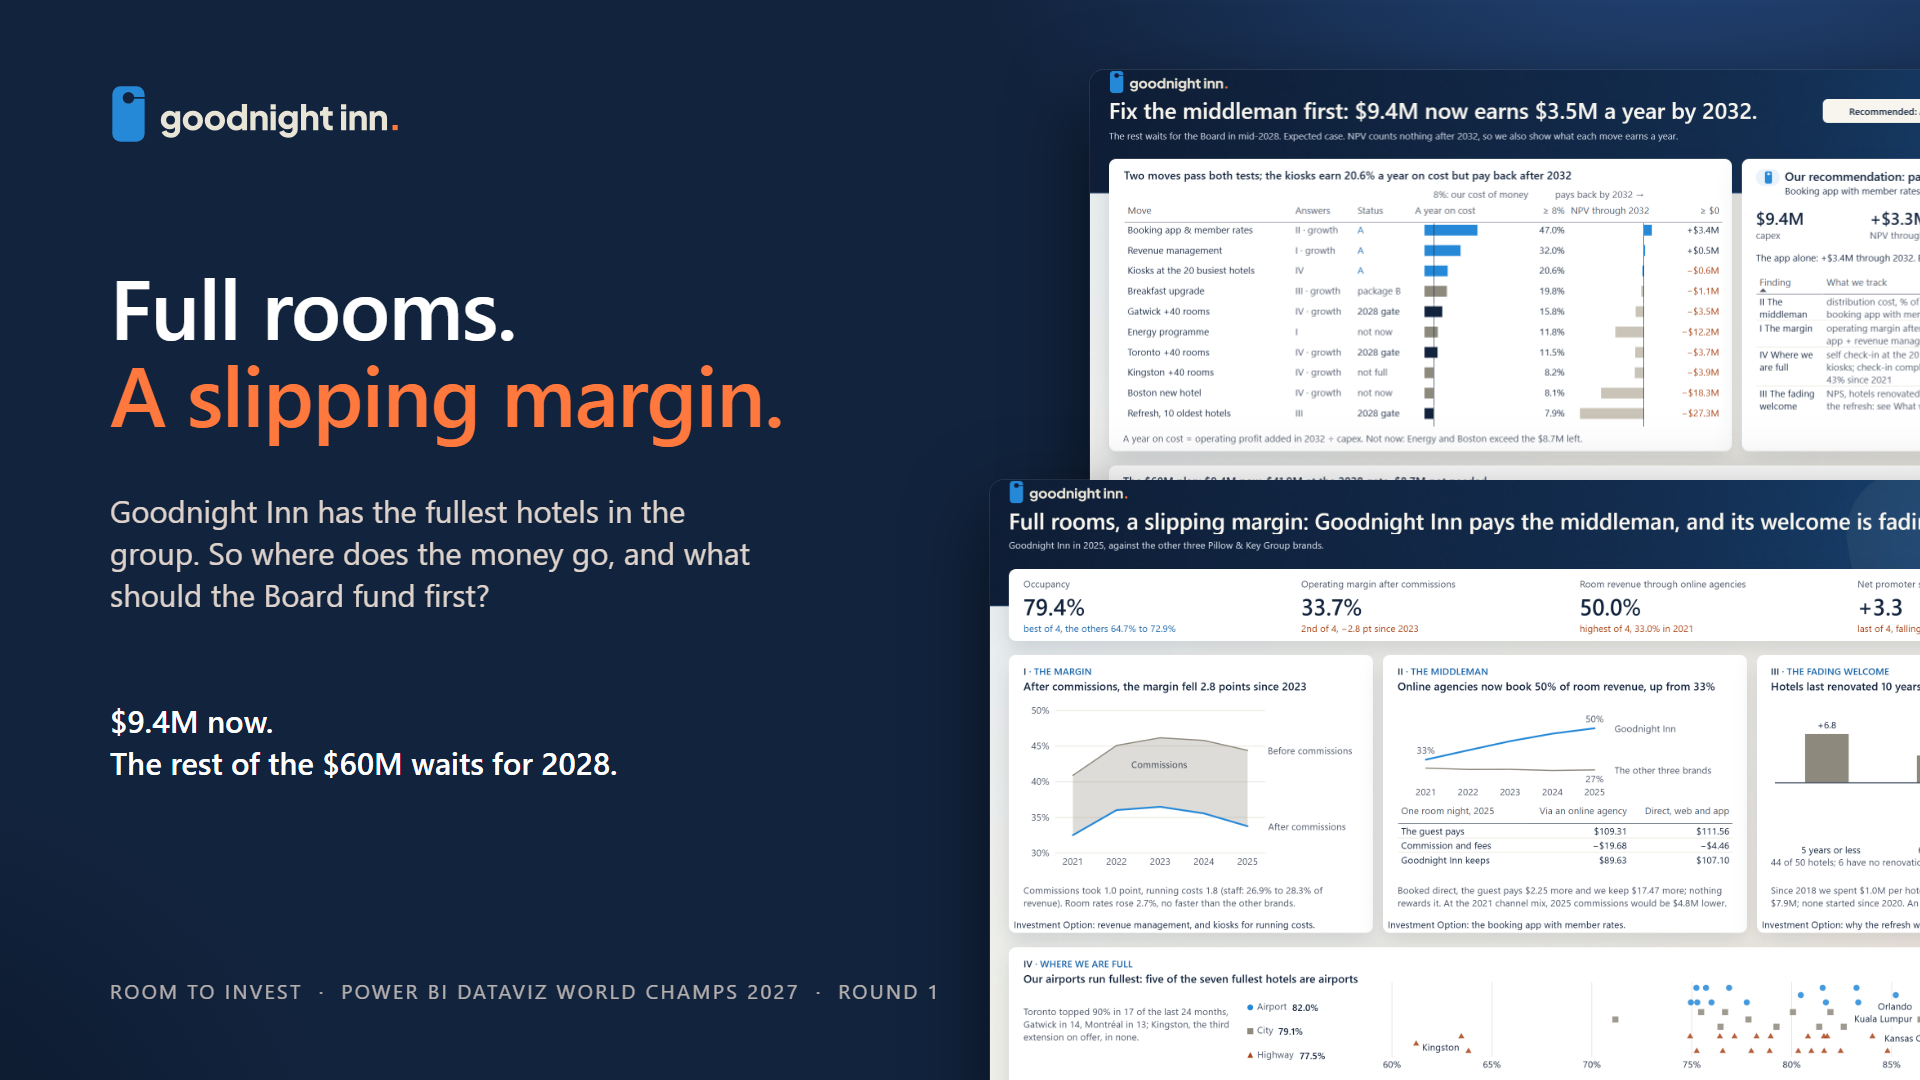
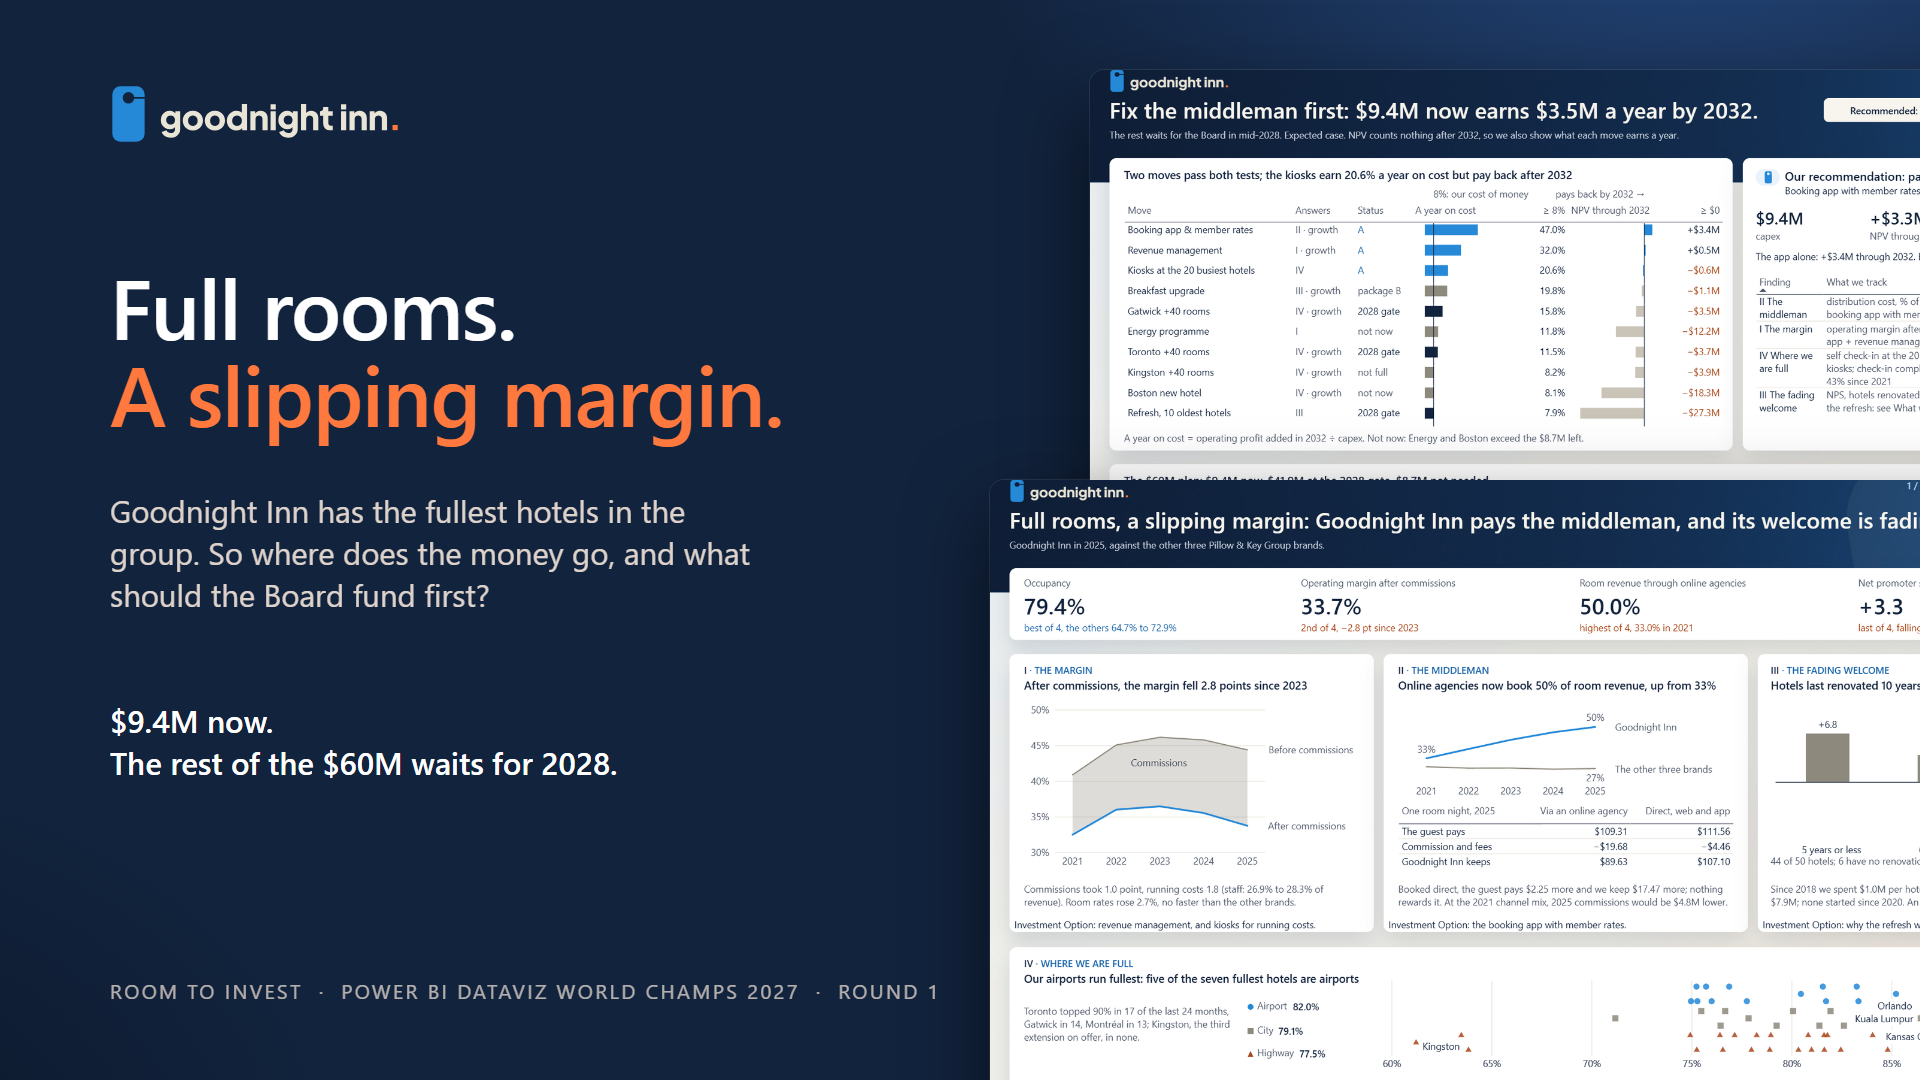
Gallery: the two page images and cover b from the 20:45 save

diff --git a/project/deliverables/final-room-to-invest/gallery/cover-b.html b/project/deliverables/final-room-to-invest/gallery/cover-b.html
@@ -13,6 +13,6 @@ h1 .hot{color:#FF783D}
 <h1 style='position:absolute;left:110px;top:262px;font-size:84px;white-space:nowrap'>Full rooms.<br><span class='hot'>A slipping margin.</span></h1>
 <p class='sub' style='position:absolute;left:110px;top:490px;width:640px;font-size:31px'>Goodnight Inn has the fullest hotels in the group. So where does the money go, and what should the Board fund first?</p>
 <p class='sub' style='position:absolute;left:110px;top:700px;width:640px;font-size:31px;opacity:1;color:#fff;font-weight:600'>$9.4M now.<br>The rest of the $60M waits for 2028.</p>
-<img src='file:///E:/PowerBI_Dataviz_WC27/project/deliverables/final-room-to-invest/plan-chart/final-copy-page2.png' style='position:absolute;border-radius:14px;box-shadow:0 30px 80px rgba(0,0,0,.55),0 0 0 1px rgba(255,255,255,.10);left:1090px;top:70px;width:1150px' alt=''>
-<img src='file:///E:/PowerBI_Dataviz_WC27/project/deliverables/final-room-to-invest/hover-align/page1.png' style='position:absolute;border-radius:14px;box-shadow:0 30px 80px rgba(0,0,0,.55),0 0 0 1px rgba(255,255,255,.10);left:990px;top:480px;width:1150px' alt=''>
+<img src='file:///E:/PowerBI_Dataviz_WC27/project/deliverables/final-room-to-invest/gallery/report-page2.png' style='position:absolute;border-radius:14px;box-shadow:0 30px 80px rgba(0,0,0,.55),0 0 0 1px rgba(255,255,255,.10);left:1090px;top:70px;width:1150px' alt=''>
+<img src='file:///E:/PowerBI_Dataviz_WC27/project/deliverables/final-room-to-invest/gallery/report-page1.png' style='position:absolute;border-radius:14px;box-shadow:0 30px 80px rgba(0,0,0,.55),0 0 0 1px rgba(255,255,255,.10);left:990px;top:480px;width:1150px' alt=''>
 <div class='foot'>Room to Invest &nbsp;·&nbsp; Power BI Dataviz World Champs 2027 &nbsp;·&nbsp; Round 1</div></div></body></html>

diff --git a/project/tools/gallery/cover.py b/project/tools/gallery/cover.py
@@ -26,8 +26,7 @@ ROOT = Path(__file__).resolve().parents[3]
 HERE = Path(__file__).resolve().parent
 OUT = ROOT / "project" / "deliverables" / "final-room-to-invest" / "gallery"
 ASSETS = ROOT / "design" / "brand-kits" / "goodnight-inn-wakeup" / "assets"
-PAGE1 = ROOT / "project" / "deliverables" / "final-room-to-invest" / "hover-align" / "page1.png"
-PAGE2 = ROOT / "project" / "deliverables" / "final-room-to-invest" / "plan-chart" / "final-copy-page2.png"
+PAGE1, PAGE2 = OUT / "report-page1.png", OUT / "report-page2.png"  # the two pages as last saved (captured from the final copy)
 EDGE = r"C:\Program Files (x86)\Microsoft\Edge\Application\msedge.exe"
 
 NIGHT, COFFEE_BLUE, SKY, OAT, GREY, ORANGE = "#12233D", "#2589D8", "#5AAEF0", "#F5E7DC", "#B9B2A3", "#FF783D"

diff --git a/project/project-state/active/35-gallery-post-cover-and-description-2026-11-16.md b/project/project-state/active/35-gallery-post-cover-and-description-2026-11-16.md
@@ -79,4 +79,4 @@ the colours changed since, so the new text says "WCAG AA", which is what `a11y_c
   page edge; nine other files differ in Desktop's serialization only; the cash chart of doc 34 is in the save as
   built; the model is equal (340 measures). Taken into `GoodnightInn-final.Report` untouched. File checks on it:
   a11y 0 failures, strip check 0, `pbir_detect` 0 unwaived. `report-page1.png` and `report-page2.png` in `gallery/`
-  and the pages inside `cover-b.png` still show the eyebrows where they were.
+  were captured again from the open final copy after this save, and `cover-b.png` was drawn again from them.
